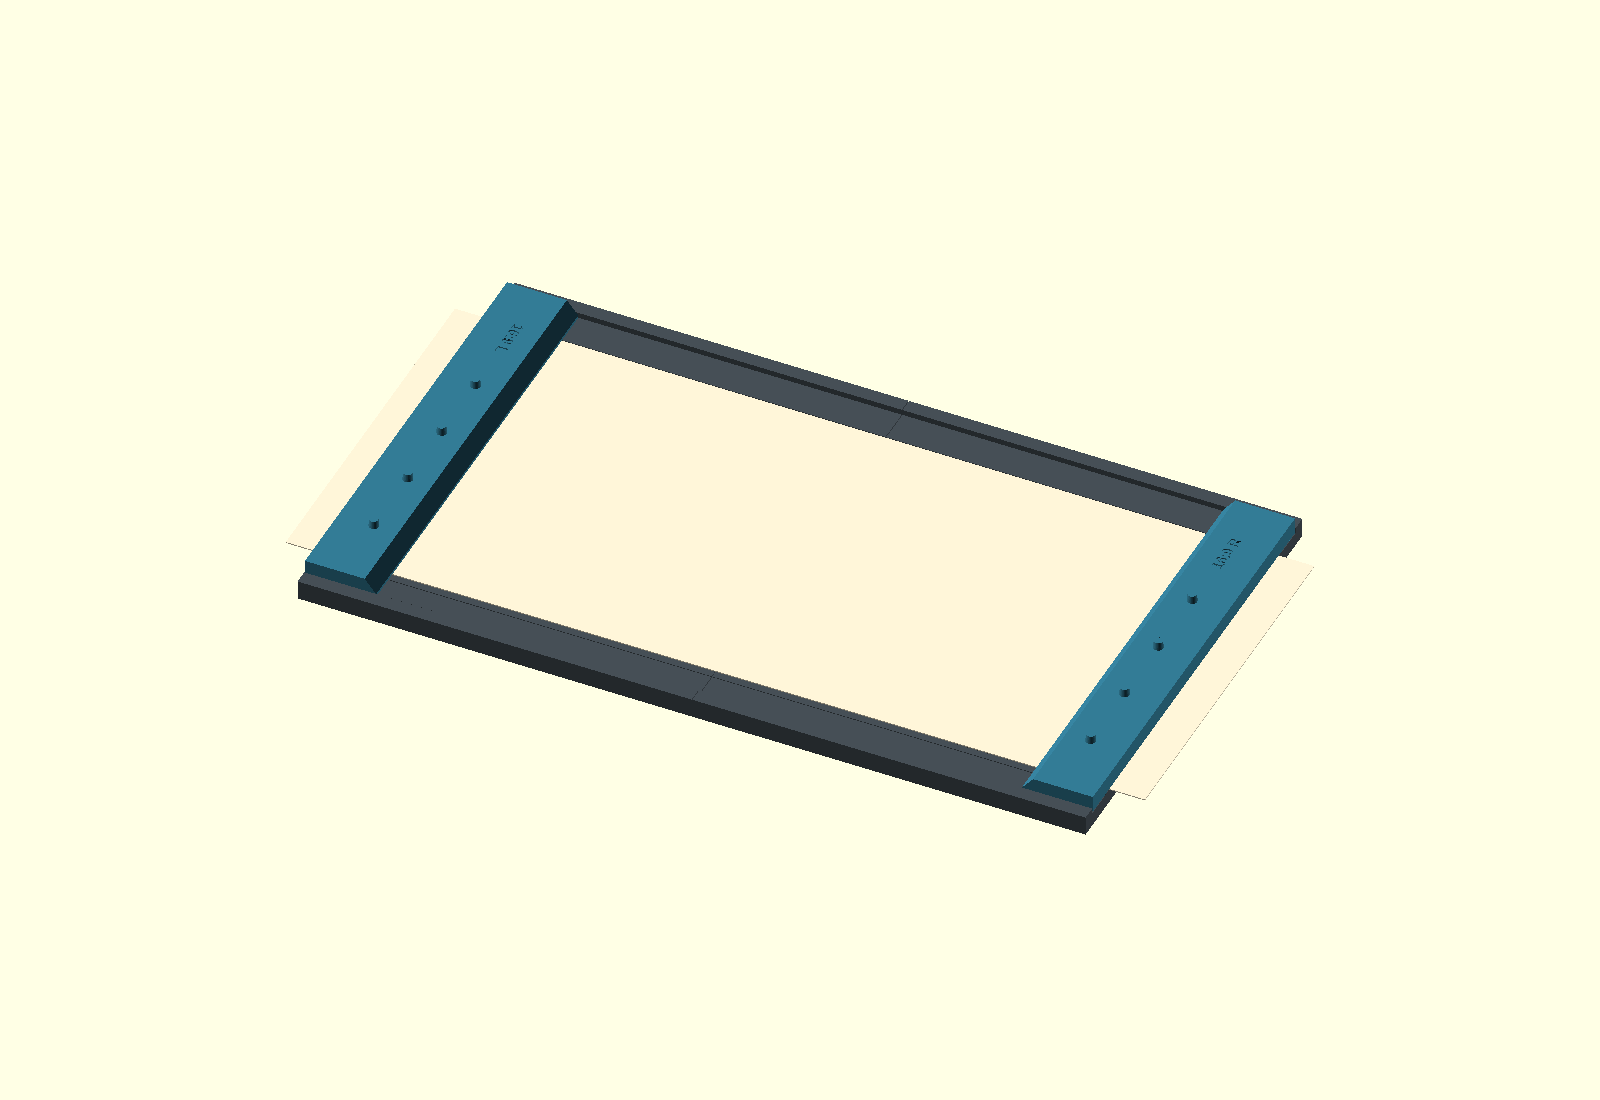
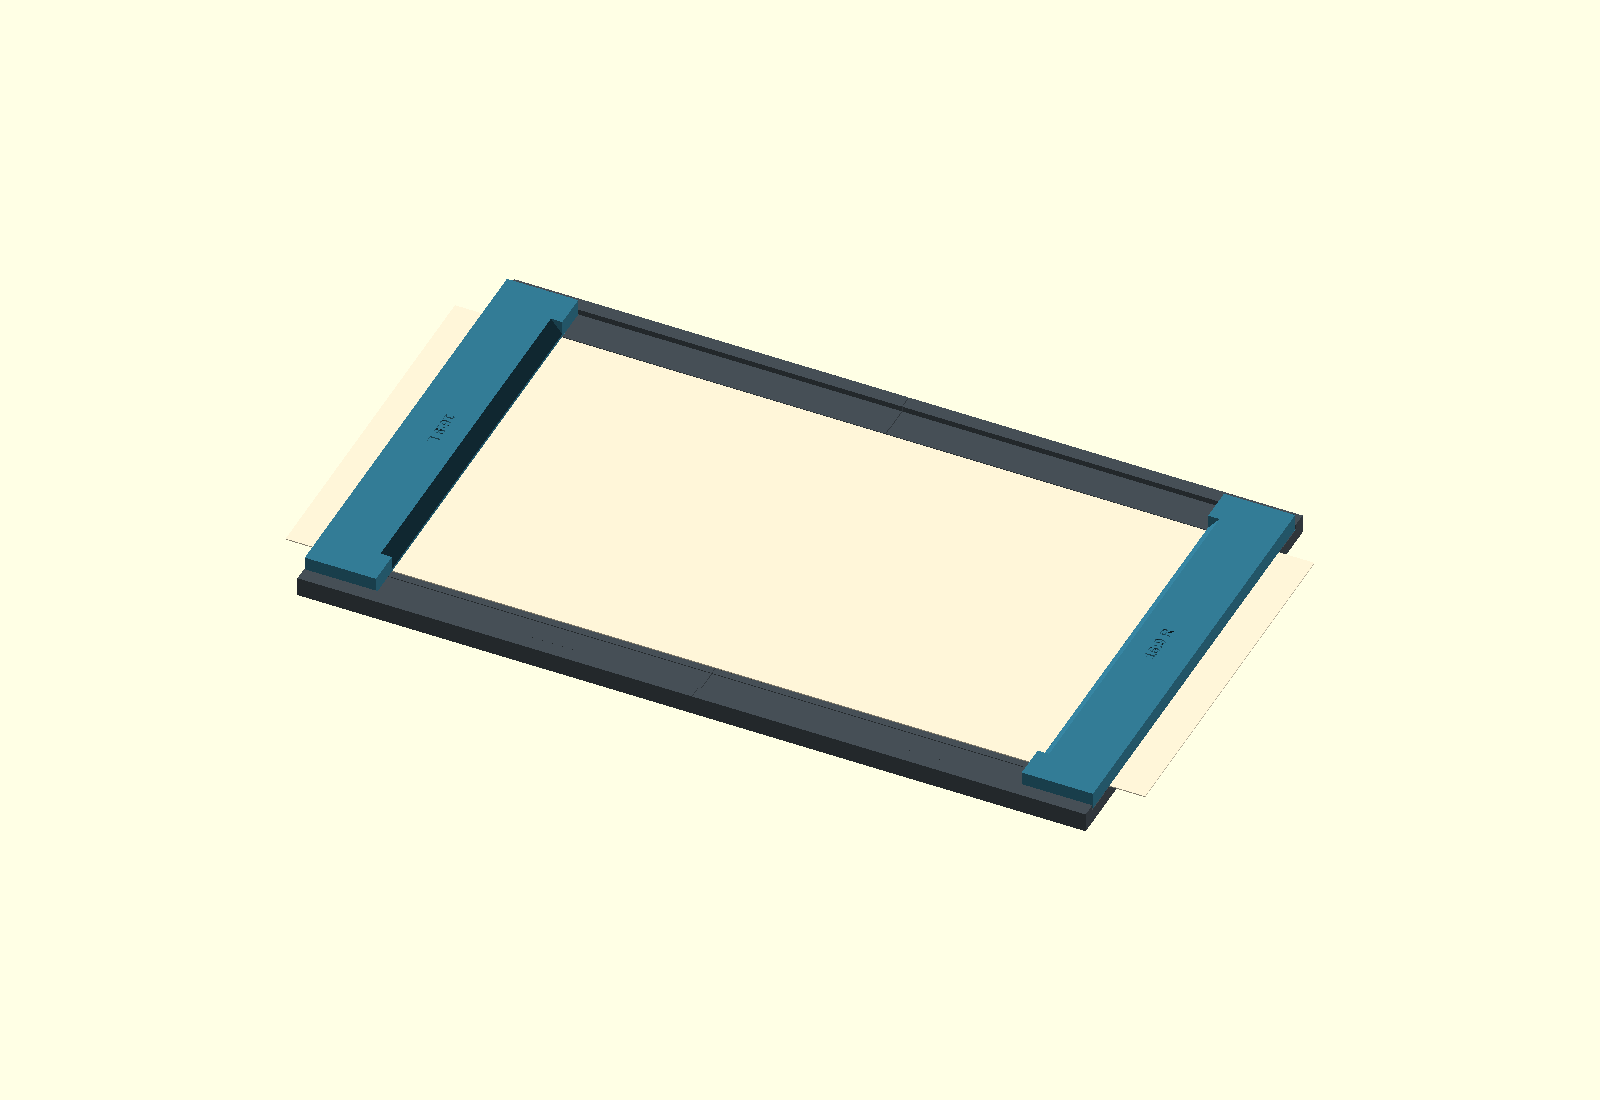
Turn test covers across paper width with fixed 30 mm bands

diff --git a/scripts/check_enlarger.py b/scripts/check_enlarger.py
@@ -71,11 +71,12 @@ def main():
             for count in range(5):
                 name = f"{scenario}-{label}-exposure-{count}"
                 mesh = export(source, name, [*settings, 'case_name="exposure"', f"cover_count={count}"])
-                exposed_width = width - count * width / 5 - (0.8 if 0 < count < 4 else 0)
-                expected = length * exposed_width
+                exposed_length = length - count * 30 - (0.8 if 0 < count < 4 else 0)
+                expected = exposed_length * width
                 assert len(components(mesh)) == 1, f"Stray light slit: {name}"
                 assert abs(mesh.volume - expected) < 0.05, f"Exposed area {name}: {mesh.volume} != {expected}"
-                assert abs(mesh.extents[0] - length) < 0.001, f"Image length: {name}"
+                assert abs(mesh.extents[0] - exposed_length) < 0.001, f"Remaining image length: {name}"
+                assert abs(mesh.extents[1] - width) < 0.001, f"Band must span the full paper width: {name}"
                 report["checks"].append(name)
             print(f"PASS {scenario} {format}: paper, joint, magnets, masks, covers, edge rays and all five exposure stages", flush=True)
 
@@ -84,9 +85,9 @@ def main():
         "wide-roll": ["paper_width=120"],
         "thin-magnet-floor": ["deck_thickness=3.2"],
         "wrong-magnets": ["magnet_diameter=8"],
-        "cover-too-long": ["end_allowance=40"],
+        "no-fifth-band": ["band_width=34"],
         "no-joint-clearance": ["joint_clearance=0"],
-        "no-cover-fit": ["cover_pin_clearance=0.1"],
+        "covers-touch-paper": ["outer_rail_height=0.2"],
     }.items():
         export(source, f"invalid-{name}", overrides, invalid=True)
         report["checks"].append(f"rejects-{name}")

diff --git a/scripts/build_enlarger.py b/scripts/build_enlarger.py
@@ -26,6 +26,7 @@ def render_previews():
         ("holder-4x3", ['format="4:3"'], "0,0,0,50,0,25,450"),
         ("test-covers", ["cover_count=4", "exploded=16"], "0,0,0,55,0,25,450"),
         ("five-bands", ["cover_count=4"], "0,0,0,0,0,0,450"),
+        ("five-bands-4x3", ["cover_count=4", 'format="4:3"'], "0,0,0,0,0,0,450"),
     ):
         command = [build.OPENSCAD, "--backend", "Manifold", "--hardwarnings",
                    "-o", str(images / f"{name}.png"), "--imgsize", "1600,1100",

diff --git a/enlarger/README.md b/enlarger/README.md
@@ -1,6 +1,6 @@
 # 102 mm roll-paper enlarger holder
 
-A flat, open-ended channel for a longer strip of 102 mm Fuji roll paper. Two removable end masks define the cut lines. Nothing overlaps the two long paper edges, so the image can reach the full width. Four covers divide the width into five exposure bands; the fifth stays open.
+A flat, open-ended channel for a longer strip of 102 mm Fuji roll paper. Two removable end masks define the cut lines. Nothing overlaps the two long paper edges during a normal print, so the image can reach the full width. Four covers make test bands across the full paper width, progressing along the image length. The fifth band stays open and takes the remaining length.
 
 ![16:9 holder with paper and end masks](images/holder-16x9.png)
 
@@ -19,8 +19,9 @@ The colours distinguish parts in the previews. **Print the base, masks and cover
 | Paper thickness used for the design | 0.30 mm; measure an offcut before printing |
 | Channel guide height | 0.20 mm, below the paper surface |
 | Mask thickness | 4.8 mm, with a bevel above the cut edge |
-| Five exposure bands | 20.4 mm wide, running the image's full length |
-| Cover blade / raised grip | 3 mm / an additional 4 mm |
+| First four exposure bands | Nominally 30 mm each, spanning the full 102 mm paper width |
+| Always-open fifth band | 61.333 mm for 16:9; 16 mm for 4:3 |
+| Cover blade / raised grip | 2.8 mm / an additional 4 mm |
 
 The taller outside rails stand 10.3 mm away from the paper edges. There is no overhanging rail or long-side retaining lip. The masks press on the two end regions and register on pins outside the paper. Their underside magnet pockets align with pockets in the base.
 
@@ -30,7 +31,7 @@ Both formats use the same base and cover set. A format insert consists of **two 
 
 ## Print list
 
-Print each production plate once: **ten pieces on eight plates**. Every plate fits within a 174 × 174 mm area, leaving 3 mm around the A1 mini's 180 mm bed. The two halves interlock in the plane of the base. Each long cover is already rotated 45° for printing.
+Print each production plate once: **ten pieces on eight plates**. Every plate fits within a 174 × 174 mm area, leaving 3 mm around the A1 mini's 180 mm bed. The two halves interlock in the plane of the base. The transverse covers print flat, without diagonal placement.
 
 | Plate source in `plates/` | Pieces | Approximate plate footprint |
 | --- | --- | --- |
@@ -38,22 +39,39 @@ Print each production plate once: **ten pieces on eight plates**. Every plate fi
 | `base_right.scad` | Right base with matching sockets | 110.5 × 130.6 mm |
 | `masks_16x9.scad` | Both 16:9 end masks | 46 × 121.8 mm |
 | `masks_4x3.scad` | Both 4:3 end masks | 91.3 × 121.8 mm |
-| `cover_1.scad` | Cover 1 | 167.9 × 167.9 mm |
-| `cover_2.scad` | Cover 2 | 167.2 × 167.2 mm |
-| `cover_3.scad` | Cover 3 | 167.2 × 167.2 mm |
-| `cover_4.scad` | Cover 4 | 166.6 × 166.6 mm |
-| `fit_coupon.scad` — optional, print first | Base corner, matching mask corner and cover end | 69 × 34.7 mm |
+| `cover_1.scad` | Cover 1 | 30.8 × 146.6 mm |
+| `cover_2.scad` | Cover 2 | 30.8 × 146.6 mm |
+| `cover_3.scad` | Cover 3 | 30.8 × 146.6 mm |
+| `cover_4.scad` | Cover 4 | 30 × 146.6 mm |
+| `fit_coupon.scad` — optional, print first | Base corner, matching mask corner and cover end | 104 × 28.3 mm |
 
-The build uses the repository's **Processor 0.20mm @BBL A1M** profile: 0.4 mm nozzle, 0.20 mm layers, four walls, six top and bottom layers, 15% infill, no supports and no brim. The filament preset is Generic PETG. Select the actual opaque black filament in Bambu Studio and reslice before printing. Keep the supplied orientations, especially the diagonal covers. The magnet-pocket roofs use short bridges; cover overlaps have 45° undersides.
+The build uses the repository's **Processor 0.20mm @BBL A1M** profile: 0.4 mm nozzle, 0.20 mm layers, four walls, six top and bottom layers, 15% infill, no supports and no brim. The filament preset is Generic PETG. Select the actual opaque black filament in Bambu Studio and reslice before printing. Keep the supplied flat orientations. The magnet-pocket roofs use short bridges; cover overlaps have 45° undersides.
+
+Slicer estimates for the default dimensions and that profile:
+
+| Part / plate | PETG | Print time |
+| --- | --- | --- |
+| Left base | 51.7 g | 1 h 39 min |
+| Right base | 49.8 g | 1 h 36 min |
+| 16:9 mask pair | 19.0 g | 44 min |
+| 4:3 mask pair | 38.3 g | 1 h 19 min |
+| Cover 1 | 14.2 g | 31 min |
+| Cover 2 | 14.0 g | 31 min |
+| Cover 3 | 14.0 g | 31 min |
+| Cover 4 | 13.8 g | 30 min |
+| **Production total** | **214.7 g** | **7 h 20 min** |
+| Optional three-piece fit coupon | 7.2 g | 19 min |
+
+Times are rounded per plate; the total uses unrounded estimates. The two masks in each pair are matching shapes and each uses about half the pair's material. Actual time and material depend on the selected filament and printer settings.
 
 You also need **twelve 6 × 3 mm disc magnets**: four in the base and two in each of the four masks. Pockets are 6.3 mm diameter × 3.2 mm deep for a glue fit. Use a suitable adhesive; the pockets do not retain magnets by themselves. Keep adhesive and magnets recessed below the pocket openings. Check attraction with each mask in its seated orientation before gluing.
 
 ## Assemble and load
 
-1. Print the three-piece fit coupon. Check the magnet pockets, locating pin, cover pin and paper clearance with an offcut. The mask should rest on the paper, with the pins entering freely. The cover end should settle on the mask and lift off easily.
+1. Print the three-piece fit coupon. Check the magnet pockets, locating pin, paper clearance and cover seat with an offcut. The mask should rest on the paper, with the locating pin entering freely. The cover should rest on the outside rail, meet the mask's square wing as an end stop, and remain above the paper.
 2. Print the production parts. Remove burrs and first-layer flare, especially on the paper-contact surfaces, mask edges and dovetails. Keep the paper deck smooth and clean.
 3. Join the base halves on a flat surface. The dovetails locate them horizontally; glue the joint while both undersides remain flat. Keep glue off the paper deck and check that the seam has no raised step.
-4. Glue the magnets with matching polarity. Fit one complete mask pair and confirm that the bottom edges contact the paper evenly. Use either both 16:9 pieces or both 4:3 pieces, with L at the left end and R at the right. The four cover pins on each mask must line up across the image; the labelled fifth band has no cover pins.
+4. Glue the magnets with matching polarity. Fit one complete mask pair and confirm that the bottom edges contact the paper evenly. Use either both 16:9 pieces or both 4:3 pieces, with L at the left end and R at the right. The square wings outside the paper are the cover stops; the bevel over the paper defines the cut edge.
 5. Set up and focus using a scrap of the same paper on the deck. Project slightly beyond both long paper edges. The end-mask inner edges are the cut lines; there is no cutter built into the holder.
 6. With the enlarger off, load the photographic paper in darkness, emulsion up. Use a strip at least as long as the base, with extra length if useful for handling. Lower the masks onto the outside locating pins. To advance the strip or change formats, lift both masks clear first.
 7. After exposure and processing, trim at the two masked ends to leave the selected image ratio. Measure or mark the cut positions on the back before loading if that helps your cutting workflow.
@@ -64,7 +82,13 @@ The magnets provide end pressure; they do not pull down the middle of the paper.
 
 ![Four removable test covers, shown lifted above the masks](images/test-covers.png)
 
-The strips run along the roll direction. Covers 1–4 have a numeral and a matching count of recesses on the raised grip. Their end holes locate on the mask pins. Keep all grips at the same end; place them in numerical order across the paper. Band 5 has no cover or locating pins.
+Each test band runs **across the full 102 mm paper width**, so it samples the image from one long edge to the other. The four covered bands are nominally 30 mm wide along the roll. The fifth band is the remainder: **61.333 mm for 16:9** or **16 mm for 4:3**. The same four covers work with either format.
+
+Covers 1–4 have a numeral and a matching count of recesses on the raised grip. Rest both ends on the two outside rails, with all grips on the same side. Centre each cover across the holder so both ends overhang the base by about 8 mm. Lower cover 1 against the left mask's square wings; lower each following cover against the previous one. The overlaps fit together at the same height. The covers use gravity and these end contacts, with no locating holes or stepped supports.
+
+![Four transverse covers with the larger remaining band in 16:9](images/five-bands.png)
+
+![The same four covers with the smaller remaining band in 4:3](images/five-bands-4x3.png)
 
 Start with all covers removed. For an example using a 5-second increment:
 
@@ -78,7 +102,7 @@ Start with all covers removed. For an example using a 5-second increment:
 
 **Turn the enlarger off for every insertion.** The finished bands receive 5, 10, 15, 20 and 25 seconds. For an increment Δt, they receive Δt through 5Δt. The same sequence works with either mask pair.
 
-The 0.8 mm overlapping tongues reduce direct gaps between covers. Covers 1–3 extend that far into the following band; judge exposure at least 1 mm away from each seam. The last cover ends at the fifth-band boundary, so the always-open band retains its full nominal 20.4 mm width. The blades sit 4.8 mm above the emulsion; actual boundary softness also depends on the enlarger and any blade sag. Remove the covers in reverse order, 4 through 1, to release the overlaps.
+The 0.8 mm overlapping tongues reduce direct gaps between covers. Covers 1–3 extend that far into the following band; judge exposure at least 1 mm away from each seam. Cover 4 has no forward tongue, so it preserves the remaining fifth band. The blades sit nominally 1.3 mm above 0.30 mm paper; actual boundary softness also depends on the enlarger, seating and any blade sag. Remove the covers in reverse order, 4 through 1, to release the overlaps.
 
 Before relying on the test result, expose a covered scrap for the longest intended test time and process it alongside an unexposed scrap. Check for transmission through the plastic or seams. Material colour and mesh checks alone do not establish opacity.
 
@@ -86,7 +110,7 @@ Before relying on the test result, expose a covered scrap for the longest intend
 
 Open [model.scad](model.scad) to inspect the assembly. `format` selects `16:9` or `4:3`, `cover_count` selects 0–4 covers, and `exploded` lifts the removable pieces for inspection. Export the individual files in `plates/` for printing; the assembly includes reference paper and is not a print plate.
 
-Edit [parameters.scad](parameters.scad) for measured paper width/thickness and fit clearances. The default 102 mm width follows the requested measurement. If the roll measures differently, update it and rebuild every part; aperture lengths and band widths follow the measured width. Assertions reject unsupported combinations. Plate wrappers must all use the same settings.
+Edit [parameters.scad](parameters.scad) for measured paper width/thickness and fit clearances. The default 102 mm width follows the requested measurement. If the roll measures differently, update it and rebuild every part; aperture lengths follow the measured width. `band_width` independently sets the four fixed bands, default 30 mm. Assertions require at least 8 mm left for the fifth band in 4:3 and reject unsupported combinations. Plate wrappers must all use the same settings.
 
 From the repository root, after installing the dependencies described in the main README:
 
